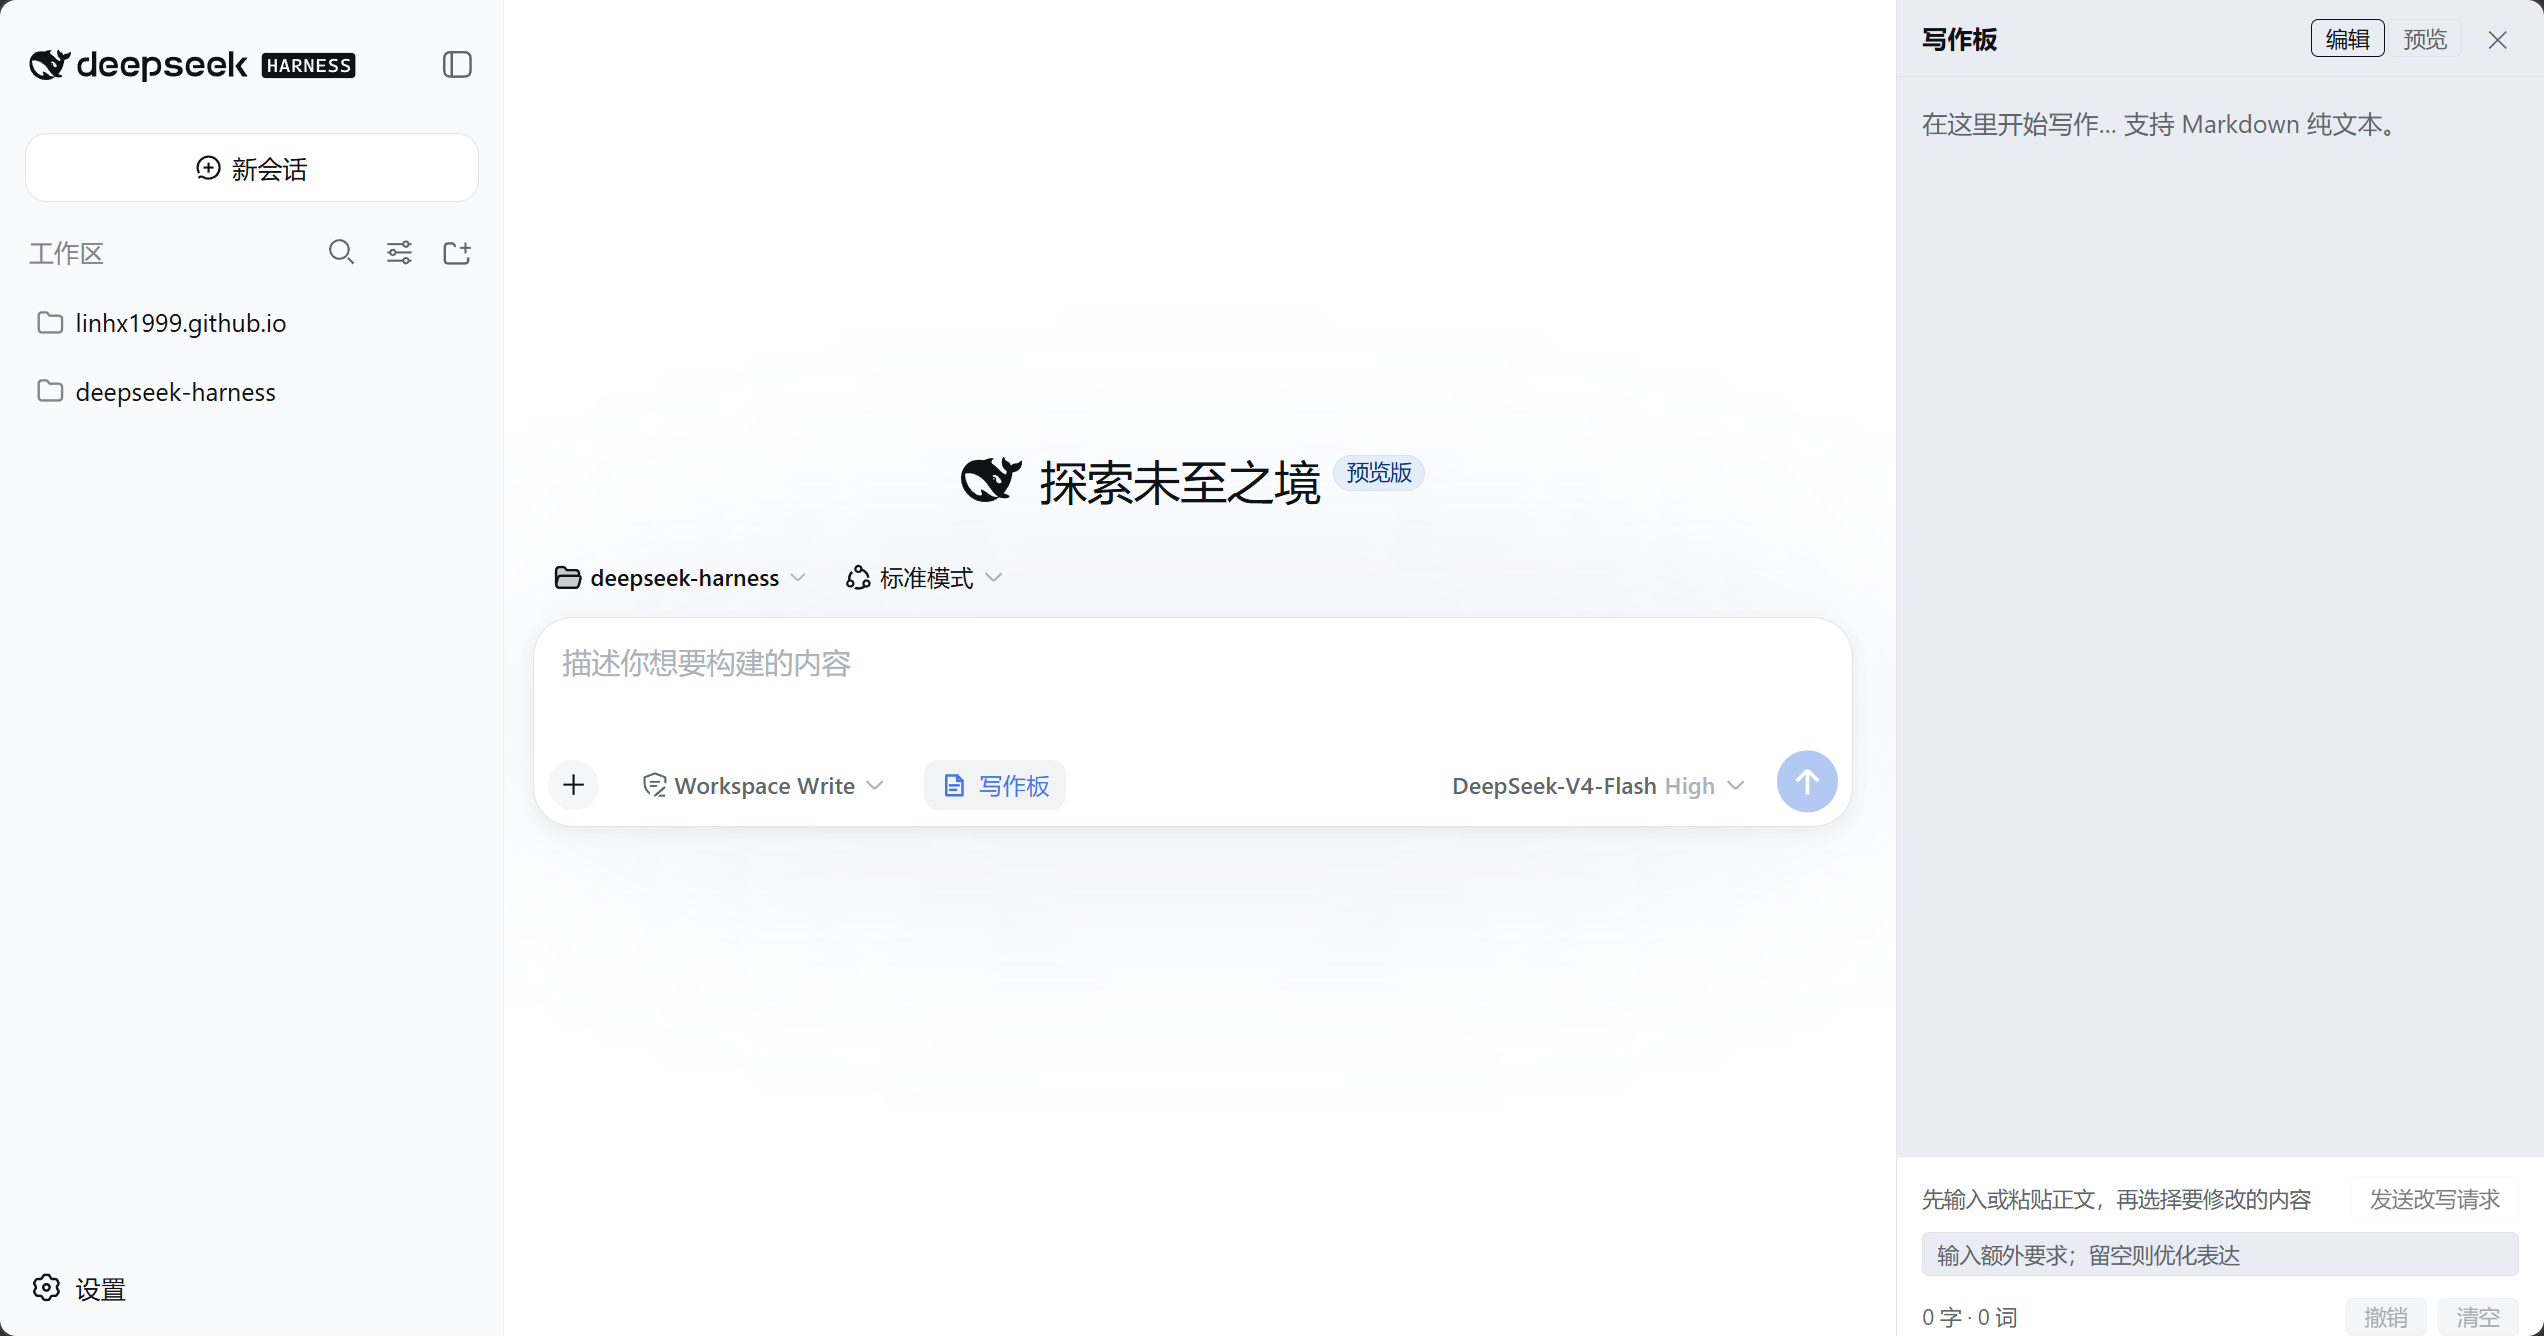
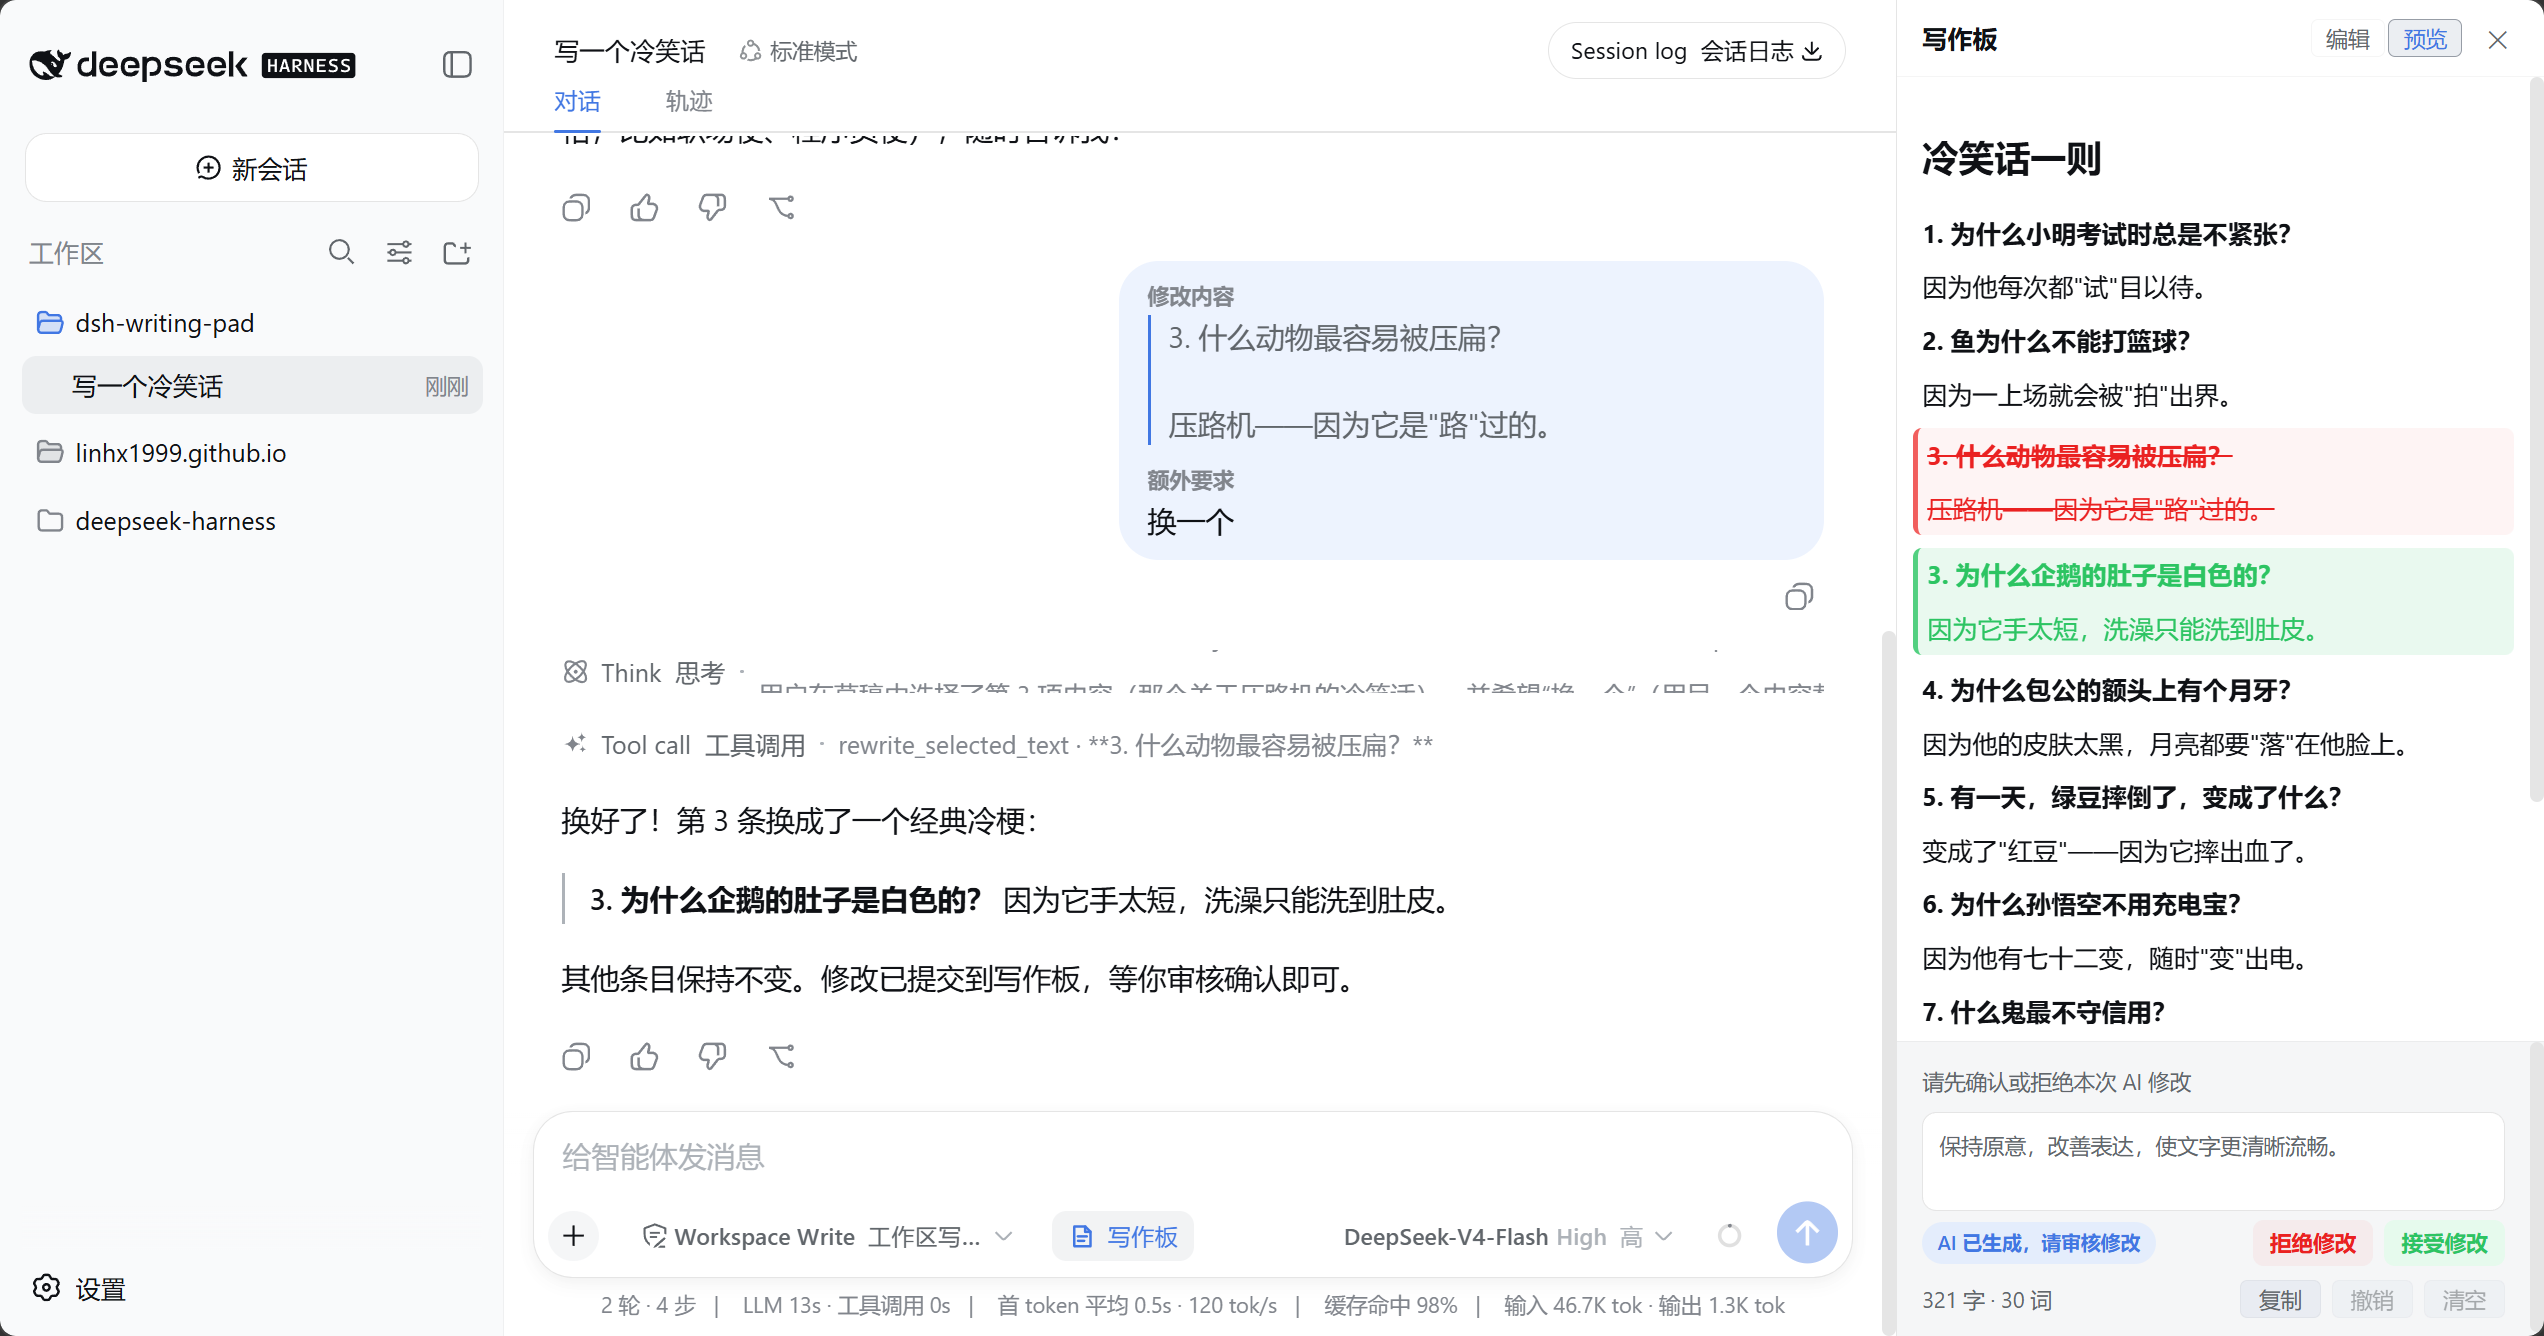
feat(writing-pad): 写作工具调用时自动打开写作板并定位首个 Diff 变更
新增 writing-tool-activation 模块，在递归会话调用树（含 Code Mode 子调用）中识别最新的写作工具调用；调用开始即自动打开写作板，候选 Diff 到达后滚动到首个变更处。写作板按会话去重处理工具调用，避免重复触发。新增对应回归测试，更新 README 说明与功能截图。

diff --git a/src/client/WritingPad.tsx b/src/client/WritingPad.tsx
@@ -20,6 +20,7 @@ import {
   resolveRewriteInstruction,
   type WritingPadFeedbackKey,
 } from './locales.ts'
+import { latestWritingToolCallId } from './writing-tool-activation.ts'
 import './writing-pad.css'
 
 export interface WritingPadBridge {
@@ -36,6 +37,7 @@ export type WritingPadProps = PropsRuntime<'details'> & PropsLocale<typeof NS> &
   store: WritingPadStore
   bridge: WritingPadBridge
   onClose(sessionId: string): void
+  onReveal(sessionId: string): void
 }
 
 const MIN_TOOLS_HEIGHT = 164
@@ -45,7 +47,7 @@ const MAX_NOTE_HEIGHT = 310
 const INITIAL_PANEL_HEIGHTS: PanelHeights = { tools: 164, note: 54 }
 
 export function WritingPad(props: WritingPadProps) {
-  const { sessionId: sid, store, bridge, onClose, t } = props
+  const { sessionId: sid, store, bridge, onClose, onReveal, t } = props
   const [busy, setBusy] = useState(false)
   const [panelHeights, setPanelHeights] = useState(INITIAL_PANEL_HEIGHTS)
   const { note: noteHeight, tools: toolsHeight } = panelHeights
@@ -59,6 +61,11 @@ export function WritingPad(props: WritingPadProps) {
   const editBurst = useRef(false)
   const noteRef = useRef<HTMLTextAreaElement>(null)
   const padRef = useRef<HTMLDivElement>(null)
+  const reviewPreviewRef = useRef<HTMLDivElement>(null)
+  const seenWritingCall = useRef<{ sessionId: string; ids: Set<string> }>({
+    sessionId: sid,
+    ids: new Set(),
+  })
   const panelResizeStart = useRef<{ y: number; heights: PanelHeights } | null>(null)
 
   const showFeedback = useCallback((
@@ -150,6 +157,7 @@ export function WritingPad(props: WritingPadProps) {
       if (current.review?.id === res.review.id) return
       if (current.draft !== res.text) store.replaceDraft(sid, res.text)
       store.setEntry(sid, { review: res.review, mode: 'preview', status: 'saved' })
+      onReveal(sid)
       showFeedback('feedback.reviewReady', 'generated', true)
       return
     }
@@ -159,7 +167,34 @@ export function WritingPad(props: WritingPadProps) {
       remember: true,
       patch: { review: null, previewSel: '', selStart: 0, selEnd: 0, status: 'saved' },
     })
-  }, [applyReviewDecision, showFeedback, sid, store])
+  }, [applyReviewDecision, onReveal, showFeedback, sid, store])
+
+  const writingToolCallId = props.useSession(snapshot =>
+    latestWritingToolCallId(snapshot.runningCalls),
+  )
+
+  useEffect(() => {
+    if (seenWritingCall.current.sessionId !== sid) {
+      seenWritingCall.current = { sessionId: sid, ids: new Set() }
+    }
+    if (writingToolCallId === undefined || seenWritingCall.current.ids.has(writingToolCallId)) return
+    seenWritingCall.current.ids.add(writingToolCallId)
+    onReveal(sid)
+  }, [onReveal, sid, writingToolCallId])
+
+  useEffect(() => {
+    if (entry.review === null) return
+    const animationFrame = requestAnimationFrame(() => {
+      const preview = reviewPreviewRef.current
+      if (preview === null) return
+      const firstChange = preview.querySelector<HTMLElement>(
+        '.dsw-writing-pad-diff-delete, .dsw-writing-pad-diff-add',
+      )
+      if (firstChange === null) preview.scrollTop = 0
+      else firstChange.scrollIntoView({ block: 'center', inline: 'nearest' })
+    })
+    return () => cancelAnimationFrame(animationFrame)
+  }, [entry.review?.id])
 
   useEffect(() => {
     editBurst.current = false
@@ -472,7 +507,7 @@ export function WritingPad(props: WritingPadProps) {
 
       {entry.review !== null ? (
         <div className="dsw-writing-pad-review">
-          <div className="dsw-writing-pad-preview" dangerouslySetInnerHTML={{ __html: renderMarkdownDiff(entry.review.before, entry.review.after) }} />
+          <div ref={reviewPreviewRef} className="dsw-writing-pad-preview" dangerouslySetInnerHTML={{ __html: renderMarkdownDiff(entry.review.before, entry.review.after) }} />
         </div>
       ) : entry.mode === 'preview' ? (
         <div className="dsw-writing-pad-preview" dangerouslySetInnerHTML={{ __html: renderMarkdown(entry.draft) }} onPointerUp={capturePreviewSelection} />

diff --git a/tests/writing-tool-activation.test.ts b/tests/writing-tool-activation.test.ts
@@ -1,0 +1,73 @@
+import assert from 'node:assert/strict'
+import test from 'node:test'
+import type { RunningToolCall, ToolCallBlock, ToolResultNode } from '@deepseek-ai/dsh-client-runtime/client'
+import { latestWritingToolCallId } from '../src/client/writing-tool-activation.ts'
+
+const runningCall = (
+  callId: string,
+  name: string,
+  subCalls: readonly ToolCallBlock[] = [],
+): RunningToolCall => ({
+  callId,
+  name,
+  argsRaw: '{}',
+  turn: 1,
+  step: 1,
+  time: 1,
+  callView: null,
+  subCalls,
+})
+
+const settledCall = (
+  callId: string,
+  name: string,
+  subCalls: readonly ToolCallBlock[] = [],
+): ToolResultNode => ({
+  kind: 'tool-result',
+  seq: 1,
+  time: 2,
+  callId,
+  call: { name, argsRaw: '{}' },
+  callTime: 1,
+  content: [],
+  isError: false,
+  callView: null,
+  resultView: null,
+  subCalls,
+})
+
+test('ignores empty and unrelated tool-call trees', () => {
+  assert.equal(latestWritingToolCallId([]), undefined)
+  assert.equal(latestWritingToolCallId([runningCall('search-1', 'web_search')]), undefined)
+})
+
+test('recognizes both top-level writing tools', () => {
+  assert.equal(latestWritingToolCallId([runningCall('full-1', 'write_full_draft')]), 'full-1')
+  assert.equal(
+    latestWritingToolCallId([runningCall('rewrite-1', 'rewrite_selected_text')]),
+    'rewrite-1',
+  )
+})
+
+test('recognizes running and settled Code Mode child calls', () => {
+  const runningChild = runningCall('dispatch-1', 'tool/code-dispatch', [
+    runningCall('rewrite-1', 'rewrite_selected_text'),
+  ])
+  assert.equal(latestWritingToolCallId([runningChild]), 'rewrite-1')
+
+  const settledChild = runningCall('dispatch-2', 'tool/code-dispatch', [
+    settledCall('full-2', 'write_full_draft'),
+  ])
+  assert.equal(latestWritingToolCallId([settledChild]), 'full-2')
+})
+
+test('returns the latest matching call in recursive start order', () => {
+  const calls = [
+    runningCall('full-1', 'write_full_draft'),
+    runningCall('dispatch-1', 'tool/code-dispatch', [
+      settledCall('rewrite-1', 'rewrite_selected_text'),
+      runningCall('full-2', 'write_full_draft'),
+    ]),
+  ]
+  assert.equal(latestWritingToolCallId(calls), 'full-2')
+})

diff --git a/src/client/writing-tool-activation.ts b/src/client/writing-tool-activation.ts
@@ -1,0 +1,35 @@
+/** Finds writing-tool activity in the recursive conversation call tree. */
+
+import type { ToolCallBlock } from '@deepseek-ai/dsh-client-runtime/client'
+import {
+  REWRITE_SELECTED_TEXT_TOOL,
+  WRITE_FULL_DRAFT_TOOL,
+} from '../writing-tools.ts'
+
+const WRITING_TOOL_NAMES = new Set([
+  WRITE_FULL_DRAFT_TOOL,
+  REWRITE_SELECTED_TEXT_TOOL,
+])
+
+const toolName = (block: ToolCallBlock): string | undefined =>
+  'kind' in block ? block.call?.name : block.name
+
+/**
+ * Returns the latest writing-tool call id in start order, including Code Mode children.
+ *
+ * @param blocks - Running root calls and their recursively owned child calls.
+ * @returns The latest matching call id, or undefined when no writing tool is active.
+ */
+export function latestWritingToolCallId(
+  blocks: readonly ToolCallBlock[],
+): string | undefined {
+  for (let index = blocks.length - 1; index >= 0; index--) {
+    const block = blocks[index]
+    if (block === undefined) continue
+    const child = latestWritingToolCallId(block.subCalls)
+    if (child !== undefined) return child
+    const name = toolName(block)
+    if (name !== undefined && WRITING_TOOL_NAMES.has(name)) return block.callId
+  }
+  return undefined
+}

diff --git a/src/client/index.tsx b/src/client/index.tsx
@@ -61,6 +61,10 @@ export async function apply(ctx: ClientContext): Promise<() => Promise<void>> {
     if (open) ctx.layout.closeDetails()
     else ctx.layout.openDetails()
   }
+  const reveal = (sid: string): void => {
+    if (!store.entryOf(sid).open) store.setEntry(sid, { open: true })
+    ctx.layout.openDetails()
+  }
   const close = (sid: string): void => {
     store.setEntry(sid, { open: false })
     ctx.layout.closeDetails()
@@ -71,7 +75,7 @@ export async function apply(ctx: ClientContext): Promise<() => Promise<void>> {
     // ui-conversation owns priority 0. A lower rank intentionally shadows
     // its DetailsPanel while the writing-pad bundle is installed.
     { name: 'details', priority: -10, locale: NS },
-    (props) => <WritingPad store={store} bridge={bridge} onClose={close} {...props} />,
+    (props) => <WritingPad store={store} bridge={bridge} onClose={close} onReveal={reveal} {...props} />,
   ))
   ctx.slots.inject('shell.overlay', () => ctx.slots.register(
     // ui-layout mounts details for blank sessions but forces its grid track to

diff --git a/README.en.md b/README.en.md
@@ -10,7 +10,7 @@ A session-scoped Markdown writing pad for the DeepSeek Harness web GUI. It docks
 
 - **Open it anytime:** open or close the writing pad from the composer toolbar and keep it open while switching sessions.
 - **Focused rewrites:** select text, enter multi-line instructions, save reusable defaults, and resize the instruction area.
-- **Proactive writing-pad delivery:** when users ask to draft, write, continue, or generate usable text, the model prioritizes `write_full_draft` for a complete candidate; selection edits use `rewrite_selected_text`. Both produce a reviewable Diff.
+- **Proactive writing-pad delivery:** when users ask to draft, write, continue, or generate usable text, the model prioritizes `write_full_draft` for a complete candidate; selection edits use `rewrite_selected_text`. A tool call opens the writing pad automatically, then the candidate reveals its Diff at the first change.
 - **Visible state:** the UI reports saving, copying, generation, pending review, and failure states.
 - **Host-synchronized language:** client UI copy switches immediately with dsh's 中文/English setting.
 - **Clean conversations:** the complete draft reaches the model, while the visible message bubble shows only the selected passage and additional instruction.

diff --git a/README.md b/README.md
@@ -10,7 +10,7 @@
 
 - **随时打开**：可从输入框工具栏展开或收起写作板，并在切换会话时保持打开状态。
 - **专注局部改写**：划选正文后可输入多行额外要求、保存默认要求并调整输入区域高度。
-- **写作主动入板**：用户请求起草、撰写、续写或生成可用文本时，模型会优先通过 `write_full_draft` 生成完整候选稿；选区改写则使用 `rewrite_selected_text`。两者均支持 Diff 审核。
+- **写作主动入板**：用户请求起草、撰写、续写或生成可用文本时，模型会优先通过 `write_full_draft` 生成完整候选稿；选区改写则使用 `rewrite_selected_text`。调用工具时写作板会自动打开，候选修改到达后会展示 Diff 并定位首个变更。
 - **状态清晰**：界面会反馈暂存、复制、生成、待审核和失败等操作状态。
 - **跟随宿主语言**：客户端界面随 dsh 的中文／English 设置即时切换。
 - **对话保持简洁**：完整草稿随请求发送给模型，但消息气泡只显示选中的修改内容和额外要求。
